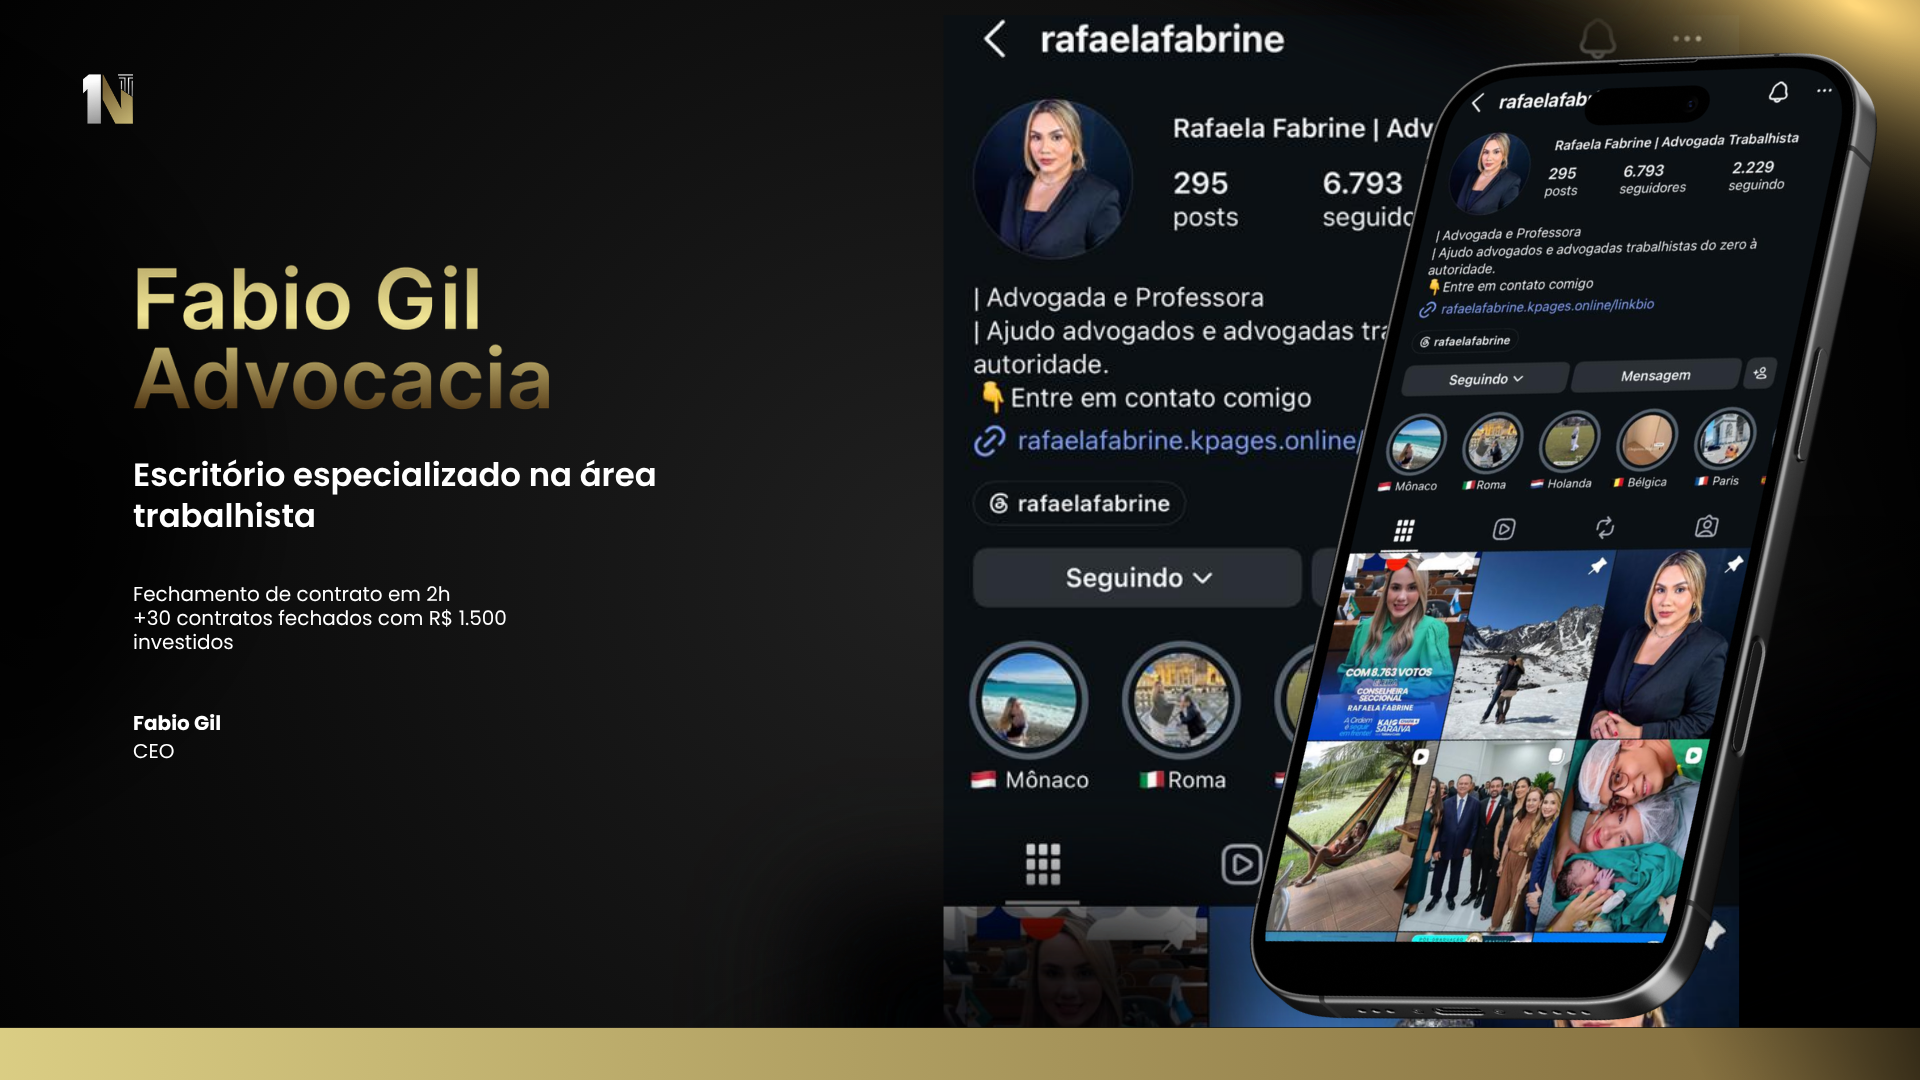
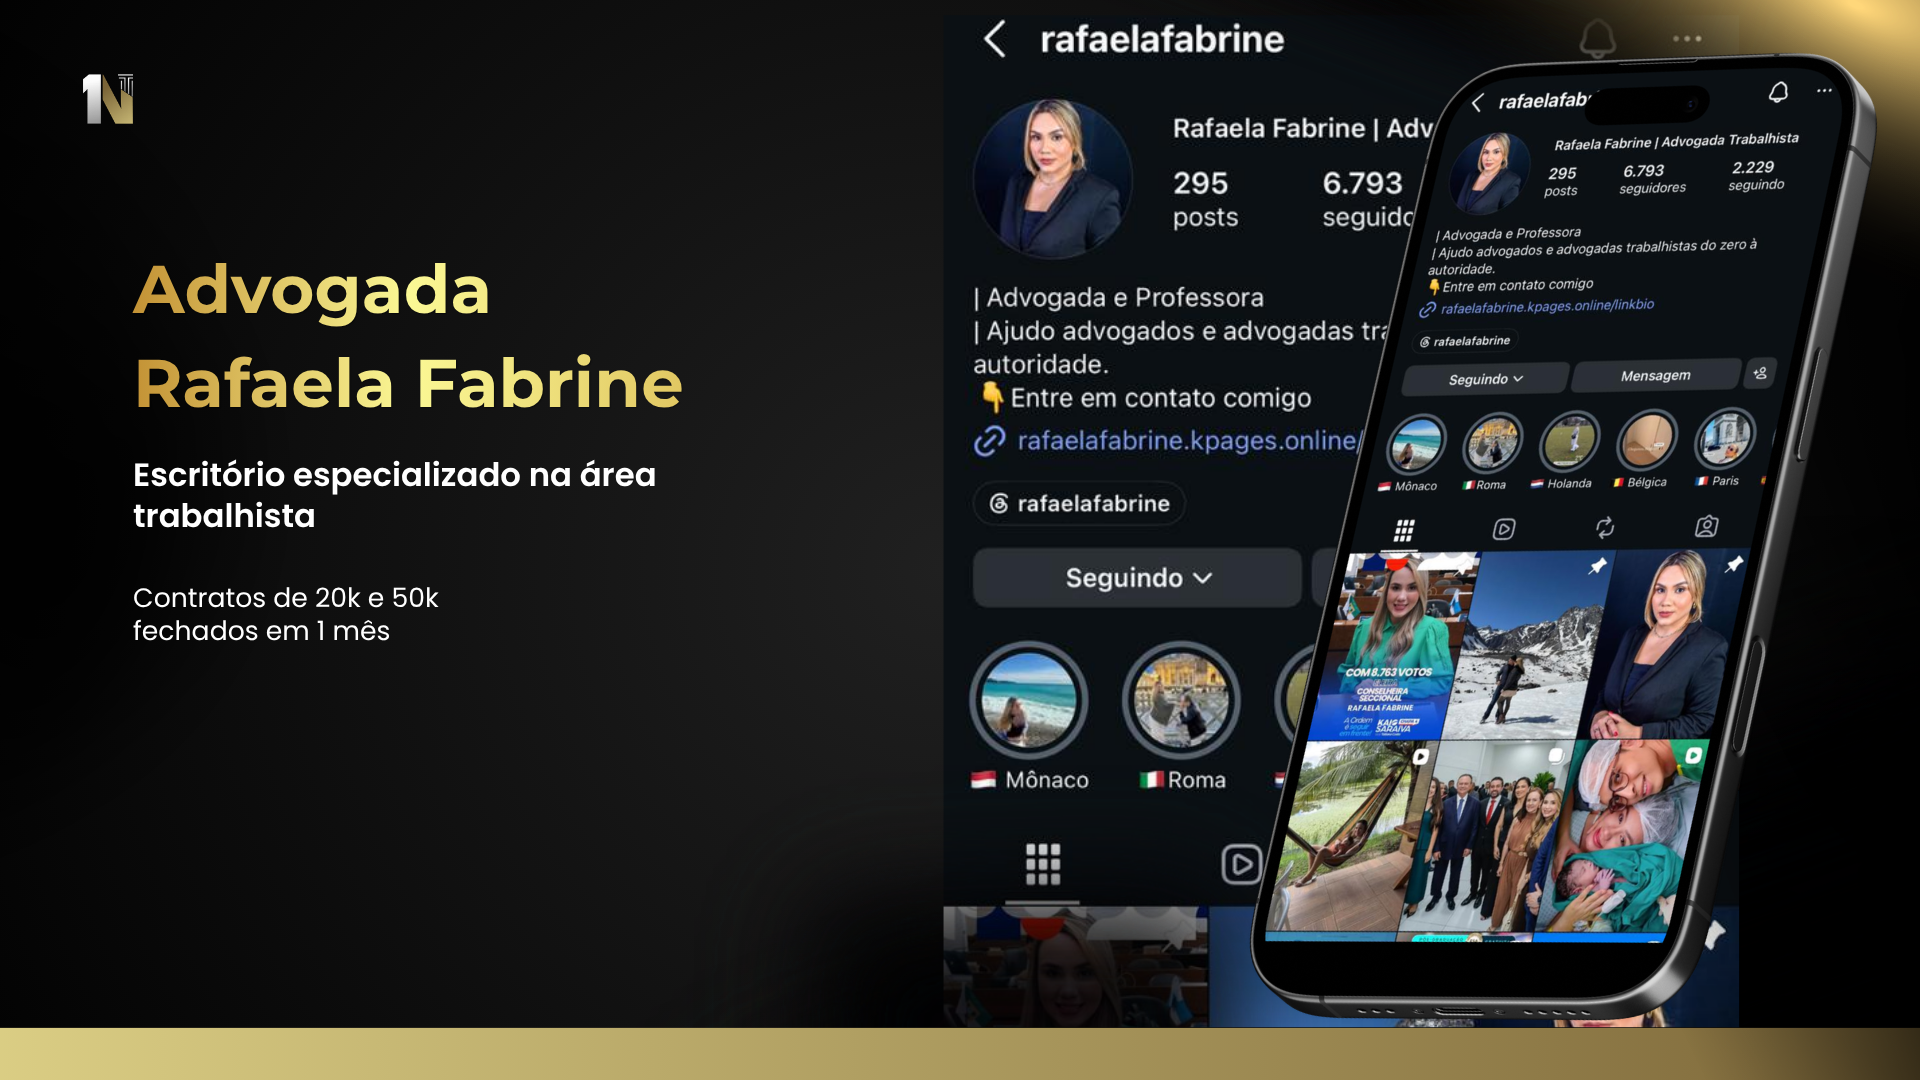
S4 + nova S12.5: atualiza slides de cases e adiciona seção Automações & Acompanhamento
S4 (Cases):
- 4 slides substituídos pelas versões finais com titulos corretos (Fábio Gil, Rafaela Fabrine, VV Advogados, Altinier Coutinho)
- Nova ordem visual com Altinier movido pra última posição
- Alts e legendas reescritos com os headlines de cada slide (métricas de fechamento)

S12.5 (nova — antes do CTA final):
- Bloco Acompanhamento & Automações com título "Automações" e 4 pílulas: Relatório Diário, Mensal, de Saldo e Feedback do Gestor
- 2 prints reais de WhatsApp (relatório semanal + mensagem do gestor) com bordas pretas do screenshot cortadas
- Clique abre lightbox (data-zoom + data-track agrupando os dois)

Changed region(s): [[0.0625, 0.2444, 0.375, 0.3972], [0.0625, 0.5194, 0.25, 0.6111], [0.0625, 0.6417, 0.125, 0.7028]]

diff --git a/index.html b/index.html
@@ -473,32 +473,32 @@
         <div class="cases-highlight anim-fade-up" data-delay="0.15" style="margin-bottom: 60px;">
           <div class="cases-highlight__grid" data-track>
             <figure class="case-card" data-zoom>
-              <img src="assets/images/case-1.png" alt="Fabio Gil Advocacia · Escritório especializado em trabalhista · +30 contratos com R$ 1.500 investidos" loading="lazy" />
+              <img src="assets/images/case-1.png" alt="Fábio Gil Advogados · Escritório especializado na área trabalhista · Fechamento de contrato em 2h · +30 contratos fechados no terceiro mês de parceria" loading="lazy" />
               <button class="case-card__zoom" aria-label="Expandir">
                 <svg width="14" height="14" viewBox="0 0 24 24" fill="none"><path d="M15 3h6v6M9 21H3v-6M21 3l-7 7M3 21l7-7" stroke="currentColor" stroke-width="2" stroke-linecap="round" stroke-linejoin="round"/></svg>
               </button>
-              <figcaption>Fabio Gil Advocacia · Trabalhista</figcaption>
+              <figcaption>Fábio Gil Advogados · +30 contratos no 3º mês</figcaption>
             </figure>
             <figure class="case-card" data-zoom>
-              <img src="assets/images/case-2.png" alt="Rafaela Fabrine · Advogada e Professora · Escritório especializado em trabalhista" loading="lazy" />
+              <img src="assets/images/case-2.png" alt="Advogada Rafaela Fabrine · Escritório especializado na área trabalhista · Contratos de 20k e 50k fechados em 1 mês" loading="lazy" />
               <button class="case-card__zoom" aria-label="Expandir">
                 <svg width="14" height="14" viewBox="0 0 24 24" fill="none"><path d="M15 3h6v6M9 21H3v-6M21 3l-7 7M3 21l7-7" stroke="currentColor" stroke-width="2" stroke-linecap="round" stroke-linejoin="round"/></svg>
               </button>
-              <figcaption>Rafaela Fabrine · Trabalhista</figcaption>
+              <figcaption>Rafaela Fabrine · Contratos de 20k e 50k em 1 mês</figcaption>
             </figure>
             <figure class="case-card" data-zoom>
-              <img src="assets/images/case-3.png" alt="Altinier &amp; Coutinho Advogados Associados · Escritório especializado em Direito do Trabalho" loading="lazy" />
+              <img src="assets/images/case-3.png" alt="VV Advogados · Escritório especializado na área trabalhista com atuação em Curitiba" loading="lazy" />
               <button class="case-card__zoom" aria-label="Expandir">
                 <svg width="14" height="14" viewBox="0 0 24 24" fill="none"><path d="M15 3h6v6M9 21H3v-6M21 3l-7 7M3 21l7-7" stroke="currentColor" stroke-width="2" stroke-linecap="round" stroke-linejoin="round"/></svg>
               </button>
-              <figcaption>Altinier &amp; Coutinho · Direito do Trabalho</figcaption>
+              <figcaption>VV Advogados · Trabalhista · Curitiba</figcaption>
             </figure>
             <figure class="case-card" data-zoom>
-              <img src="assets/images/case-4.png" alt="VV Advogados · André Luiz Souza Vale (CEO) · Escritório trabalhista em Curitiba" loading="lazy" />
+              <img src="assets/images/case-4.png" alt="Escritório Altinier Coutinho · Escritório especializado na área trabalhista · +8 fechamentos mensais" loading="lazy" />
               <button class="case-card__zoom" aria-label="Expandir">
                 <svg width="14" height="14" viewBox="0 0 24 24" fill="none"><path d="M15 3h6v6M9 21H3v-6M21 3l-7 7M3 21l7-7" stroke="currentColor" stroke-width="2" stroke-linecap="round" stroke-linejoin="round"/></svg>
               </button>
-              <figcaption>VV Advogados · Curitiba · André Luiz Souza Vale</figcaption>
+              <figcaption>Altinier Coutinho · +8 fechamentos mensais</figcaption>
             </figure>
           </div>
         </div>
@@ -1648,6 +1648,68 @@
         </ul>
       </div>
 
+    </div>
+  </section>
+  <!-- ============================================================
+       SEÇÃO 12.5 — ACOMPANHAMENTO & AUTOMAÇÕES
+  ============================================================ -->
+  <section id="automacoes" class="section section--automacoes">
+    <div class="automacoes-bg" aria-hidden="true">
+      <div class="automacoes-bg__glow"></div>
+    </div>
+
+    <div class="container">
+      <div class="automacoes-grid">
+        <!-- Coluna esquerda: título + lista -->
+        <header class="automacoes-head anim-fade-up">
+          <span class="kicker"><span class="kicker__dot"></span>ACOMPANHAMENTO</span>
+          <h2 class="automacoes-title">Automações</h2>
+          <p class="automacoes-sub">
+            Soluções internas e <span class="text-yellow">exclusivas da 1Nort</span>
+          </p>
+          <ul class="automacoes-list">
+            <li>
+              <span class="automacoes-list__arrow" aria-hidden="true">
+                <svg width="14" height="14" viewBox="0 0 24 24" fill="none"><path d="M5 12h14M13 6l6 6-6 6" stroke="currentColor" stroke-width="2.4" stroke-linecap="round" stroke-linejoin="round"/></svg>
+              </span>
+              Relatório Diário
+            </li>
+            <li>
+              <span class="automacoes-list__arrow" aria-hidden="true">
+                <svg width="14" height="14" viewBox="0 0 24 24" fill="none"><path d="M5 12h14M13 6l6 6-6 6" stroke="currentColor" stroke-width="2.4" stroke-linecap="round" stroke-linejoin="round"/></svg>
+              </span>
+              Relatório Mensal
+            </li>
+            <li>
+              <span class="automacoes-list__arrow" aria-hidden="true">
+                <svg width="14" height="14" viewBox="0 0 24 24" fill="none"><path d="M5 12h14M13 6l6 6-6 6" stroke="currentColor" stroke-width="2.4" stroke-linecap="round" stroke-linejoin="round"/></svg>
+              </span>
+              Relatório de Saldo
+            </li>
+            <li>
+              <span class="automacoes-list__arrow" aria-hidden="true">
+                <svg width="14" height="14" viewBox="0 0 24 24" fill="none"><path d="M5 12h14M13 6l6 6-6 6" stroke="currentColor" stroke-width="2.4" stroke-linecap="round" stroke-linejoin="round"/></svg>
+              </span>
+              Feedback do Gestor
+            </li>
+          </ul>
+          <p class="automacoes-note">
+            Você recebe <strong class="text-white">números, ajustes e próximos passos</strong> sem precisar perguntar.
+          </p>
+        </header>
+
+        <!-- Coluna direita: 2 prints reais de WhatsApp -->
+        <div class="automacoes-chats anim-fade-up" data-delay="0.1" data-track>
+          <figure class="auto-chat-shot" data-zoom>
+            <img src="assets/images/auto-chat-1.png" alt="Relatório automático: resumo semanal de campanhas, investimento, leads e custo por lead enviado via WhatsApp" loading="lazy" />
+            <figcaption>Relatório automático · resumo semanal</figcaption>
+          </figure>
+          <figure class="auto-chat-shot" data-zoom>
+            <img src="assets/images/auto-chat-2.png" alt="Mensagem do gestor 1Nort sobre ajustes de segmentação e novos criativos enviada no grupo Nascimento Advocacia" loading="lazy" />
+            <figcaption>Feedback do gestor · ajustes em tempo real</figcaption>
+          </figure>
+        </div>
+      </div>
     </div>
   </section>
   <!-- ============================================================

diff --git a/css/style.css b/css/style.css
@@ -9466,3 +9466,145 @@ html.is-locked body > *:not(#access-gate) {
 @media (max-width: 720px) {
   .cases-highlight__grid { grid-template-columns: 1fr; gap: 16px; }
 }
+
+/* ============================================================
+   SEÇÃO 7 — ACOMPANHAMENTO & AUTOMAÇÕES
+============================================================ */
+.section--automacoes {
+  position: relative;
+  overflow: hidden;
+}
+.automacoes-bg {
+  position: absolute;
+  inset: 0;
+  pointer-events: none;
+  z-index: 0;
+}
+.automacoes-bg__glow {
+  position: absolute;
+  top: 40%;
+  left: 50%;
+  width: 720px;
+  height: 720px;
+  transform: translate(-50%, -50%);
+  background: radial-gradient(circle, rgba(255, 184, 0, 0.10), transparent 70%);
+  filter: blur(80px);
+}
+
+.automacoes-grid {
+  position: relative;
+  z-index: 1;
+  display: grid;
+  grid-template-columns: 0.85fr 1.3fr;
+  gap: 64px;
+  align-items: center;
+}
+
+.automacoes-head {
+  max-width: 420px;
+}
+.automacoes-title {
+  font-family: var(--f-display);
+  font-size: clamp(2.4rem, 4.5vw, 3.4rem);
+  font-weight: 700;
+  color: var(--c-text);
+  margin: 14px 0 10px;
+  letter-spacing: -0.02em;
+  line-height: 1.05;
+}
+.automacoes-sub {
+  color: rgba(255,255,255,0.72);
+  font-size: 1.05rem;
+  line-height: 1.5;
+  margin: 0 0 28px;
+}
+.automacoes-list {
+  list-style: none;
+  padding: 0;
+  margin: 0 0 24px;
+  display: grid;
+  gap: 12px;
+}
+.automacoes-list li {
+  display: inline-flex;
+  align-items: center;
+  gap: 12px;
+  padding: 11px 22px 11px 18px;
+  background: rgba(20,20,20,0.7);
+  border: 1px solid var(--c-border);
+  border-radius: 999px;
+  color: #fff;
+  font-size: 0.95rem;
+  font-weight: 500;
+  width: max-content;
+  max-width: 100%;
+  transition: border-color .25s ease, transform .25s ease;
+}
+.automacoes-list li:hover {
+  border-color: rgba(255, 184, 0, 0.45);
+  transform: translateX(4px);
+}
+.automacoes-list__arrow {
+  color: var(--c-yellow);
+  display: inline-flex;
+}
+.automacoes-note {
+  color: rgba(255,255,255,0.65);
+  font-size: 0.92rem;
+  line-height: 1.5;
+  margin: 0;
+}
+
+.automacoes-chats {
+  display: grid;
+  grid-template-columns: repeat(2, 1fr);
+  gap: 22px;
+  align-items: start;
+}
+
+.auto-chat-shot {
+  position: relative;
+  margin: 0;
+  border-radius: 22px;
+  overflow: hidden;
+  border: 1px solid rgba(255, 184, 0, 0.42);
+  background: #0a0a0a;
+  cursor: zoom-in;
+  box-shadow: 0 14px 40px rgba(0,0,0,0.45);
+  transition: transform .3s ease, box-shadow .3s ease, border-color .3s ease;
+}
+.auto-chat-shot:hover {
+  transform: translateY(-4px);
+  border-color: rgba(255, 184, 0, 0.7);
+  box-shadow: 0 18px 48px rgba(0,0,0,0.6);
+}
+.auto-chat-shot img {
+  width: 100%;
+  height: auto;
+  display: block;
+  object-fit: contain;
+}
+.auto-chat-shot figcaption {
+  position: absolute;
+  left: 0; right: 0; bottom: 0;
+  padding: 12px 16px;
+  background: linear-gradient(180deg, transparent, rgba(0, 0, 0, 0.9));
+  color: #fff;
+  font-size: 0.82rem;
+  font-weight: 500;
+  letter-spacing: 0.2px;
+  opacity: 0;
+  transition: opacity .3s ease;
+}
+.auto-chat-shot:hover figcaption { opacity: 1; }
+
+@media (max-width: 960px) {
+  .automacoes-grid {
+    grid-template-columns: 1fr;
+    gap: 40px;
+  }
+  .automacoes-head { max-width: none; }
+}
+@media (max-width: 640px) {
+  .automacoes-chats { grid-template-columns: 1fr; gap: 18px; }
+}
